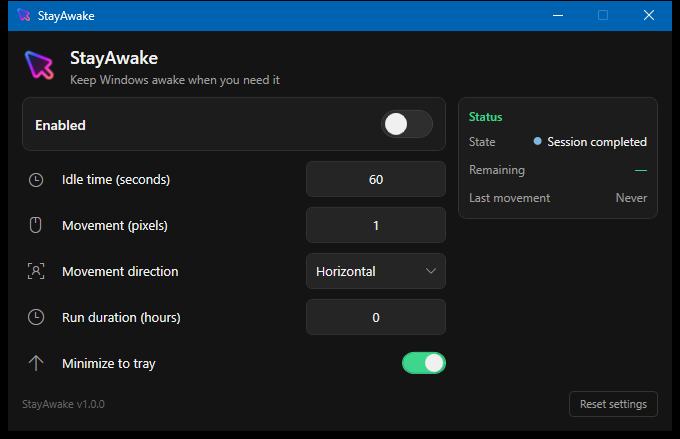
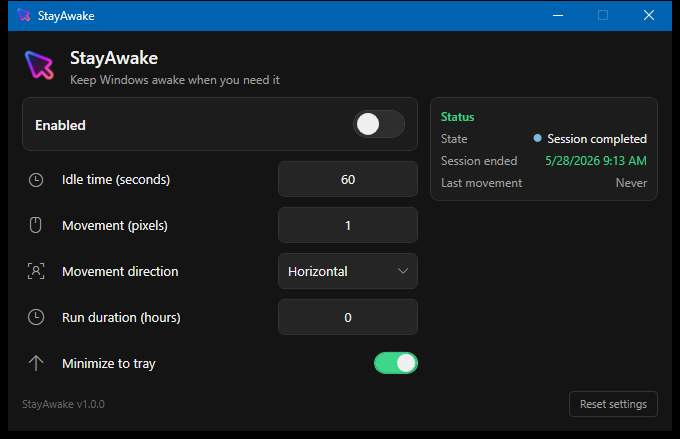
Added feature to display the date and time when a session ended.

diff --git a/StayAwake/MainWindow.xaml b/StayAwake/MainWindow.xaml
@@ -50,7 +50,7 @@
             <Grid.ColumnDefinitions>
                 <ColumnDefinition Width="*"/>
                 <ColumnDefinition Width="12"/>
-                <ColumnDefinition Width="200"/>
+                <ColumnDefinition Width="228"/>
             </Grid.ColumnDefinitions>
 
             <!-- Main settings -->
@@ -159,6 +159,11 @@
             <!-- Status -->
             <Border Grid.Column="2" Style="{StaticResource CardBorder}" Padding="10,10" VerticalAlignment="Top">
                 <Grid>
+                    <Grid.ColumnDefinitions>
+                        <ColumnDefinition Width="Auto"/>
+                        <ColumnDefinition Width="*"/>
+                        <ColumnDefinition Width="Auto"/>
+                    </Grid.ColumnDefinitions>
                     <Grid.RowDefinitions>
                         <RowDefinition Height="Auto"/>
                         <RowDefinition Height="Auto"/>
@@ -168,54 +173,49 @@
                     </Grid.RowDefinitions>
 
                     <TextBlock Grid.Row="0"
+                               Grid.ColumnSpan="3"
                                Text="Status"
                                FontSize="12"
                                FontWeight="SemiBold"
                                Foreground="{StaticResource AccentGreen}"
                                Margin="0,0,0,6"/>
 
-                    <Grid Grid.Row="1" Style="{StaticResource StatusRow}">
-                        <Grid.ColumnDefinitions>
-                            <ColumnDefinition Width="*"/>
-                            <ColumnDefinition Width="Auto"/>
-                        </Grid.ColumnDefinitions>
-                        <TextBlock Text="State" Style="{StaticResource StatusLabel}"/>
-                        <StackPanel Grid.Column="1" Orientation="Horizontal" HorizontalAlignment="Right">
-                            <Ellipse Style="{StaticResource StatusDot}" Margin="0,0,6,0" VerticalAlignment="Center"/>
-                            <TextBlock Text="{Binding StatusPillText}"
-                                       FontSize="12"
-                                       Foreground="{StaticResource TextPrimary}"
-                                       VerticalAlignment="Center"/>
-                        </StackPanel>
-                    </Grid>
-
-                    <Grid Grid.Row="2" Style="{StaticResource StatusRow}">
-                        <Grid.ColumnDefinitions>
-                            <ColumnDefinition Width="*"/>
-                            <ColumnDefinition Width="Auto"/>
-                        </Grid.ColumnDefinitions>
-                        <TextBlock Text="Remaining" Style="{StaticResource StatusLabel}"/>
-                        <TextBlock Grid.Column="1"
-                                   Text="{Binding RemainingDisplayText}"
+                    <TextBlock Grid.Row="1"
+                               Grid.Column="0"
+                               Text="State"
+                               Style="{StaticResource StatusLabel}"
+                               Margin="0,0,0,6"/>
+                    <StackPanel Grid.Row="1"
+                                Grid.Column="2"
+                                Orientation="Horizontal"
+                                Margin="0,0,0,6">
+                        <Ellipse Style="{StaticResource StatusDot}" Margin="0,0,6,0" VerticalAlignment="Center"/>
+                        <TextBlock Text="{Binding StatusPillText}"
                                    FontSize="12"
-                                   Foreground="{StaticResource AccentGreen}"
-                                   HorizontalAlignment="Right"
+                                   Foreground="{StaticResource TextPrimary}"
                                    VerticalAlignment="Center"/>
-                    </Grid>
+                    </StackPanel>
 
-                    <Grid Grid.Row="3" Style="{StaticResource StatusRowLast}" Margin="0">
-                        <Grid.ColumnDefinitions>
-                            <ColumnDefinition Width="*"/>
-                            <ColumnDefinition Width="Auto"/>
-                        </Grid.ColumnDefinitions>
-                        <TextBlock Text="Last movement" Style="{StaticResource StatusLabel}"/>
-                        <TextBlock Grid.Column="1"
-                                   Text="{Binding LastMovementValue}"
-                                   FontSize="12"
-                                   Foreground="{StaticResource TextSecondary}"
-                                   HorizontalAlignment="Right"
-                                   VerticalAlignment="Center"/>
-                    </Grid>
+                    <TextBlock Grid.Row="2"
+                               Grid.Column="0"
+                               Text="{Binding RemainingLabelText}"
+                               Style="{StaticResource StatusLabel}"
+                               Margin="0,0,0,6"/>
+                    <TextBlock Grid.Row="2"
+                               Grid.Column="2"
+                               Text="{Binding RemainingDisplayText}"
+                               Style="{StaticResource StatusValue}"
+                               Foreground="{StaticResource AccentGreen}"
+                               Margin="0,0,0,6"/>
+
+                    <TextBlock Grid.Row="3"
+                               Grid.Column="0"
+                               Text="Last movement"
+                               Style="{StaticResource StatusLabel}"/>
+                    <TextBlock Grid.Row="3"
+                               Grid.Column="2"
+                               Text="{Binding LastMovementValue}"
+                               Style="{StaticResource StatusValue}"/>
                 </Grid>
             </Border>
         </Grid>

diff --git a/StayAwake/App.xaml b/StayAwake/App.xaml
@@ -65,6 +65,16 @@
             <Setter Property="FontSize" Value="12"/>
             <Setter Property="Foreground" Value="{StaticResource TextSecondary}"/>
             <Setter Property="VerticalAlignment" Value="Center"/>
+            <Setter Property="Margin" Value="0,0,8,0"/>
+        </Style>
+
+        <Style x:Key="StatusValue" TargetType="TextBlock">
+            <Setter Property="FontSize" Value="12"/>
+            <Setter Property="Foreground" Value="{StaticResource TextSecondary}"/>
+            <Setter Property="VerticalAlignment" Value="Center"/>
+            <Setter Property="HorizontalAlignment" Value="Right"/>
+            <Setter Property="TextAlignment" Value="Right"/>
+            <Setter Property="Margin" Value="8,0,0,0"/>
         </Style>
 
         <!-- Segoe MDL2 icon -->

diff --git a/StayAwake/MainViewModel.cs b/StayAwake/MainViewModel.cs
@@ -271,6 +271,9 @@ public sealed class MainViewModel : INotifyPropertyChanged
         }
     }
 
+    public string RemainingLabelText =>
+        Status == AppStatus.SessionCompleted ? "Session ended" : "Remaining";
+
     public string RemainingDisplayText
     {
         get
@@ -279,7 +282,11 @@ public sealed class MainViewModel : INotifyPropertyChanged
                 return "—";
 
             if (Status == AppStatus.SessionCompleted)
-                return "—";
+            {
+                return _worker.SessionEndedAt is { } ended
+                    ? SessionDisplay.FormatSessionEndedAt(ended)
+                    : "—";
+            }
 
             if (_worker.IsUnlimitedSession)
                 return "Unlimited";
@@ -342,6 +349,7 @@ public sealed class MainViewModel : INotifyPropertyChanged
     {
         OnPropertyChanged(nameof(Status));
         OnPropertyChanged(nameof(StatusPillText));
+        OnPropertyChanged(nameof(RemainingLabelText));
         OnPropertyChanged(nameof(RemainingTimeValue));
         OnPropertyChanged(nameof(RemainingDisplayText));
         OnPropertyChanged(nameof(LastMovementValue));

diff --git a/StayAwake/SessionDisplay.cs b/StayAwake/SessionDisplay.cs
@@ -1,7 +1,12 @@
+using System.Globalization;
+
 namespace StayAwake;
 
 internal static class SessionDisplay
 {
+    public static string FormatSessionEndedAt(DateTime utc) =>
+        utc.ToLocalTime().ToString("g", CultureInfo.CurrentCulture);
+
     public static string FormatRemaining(TimeSpan remaining)
     {
         if (remaining <= TimeSpan.Zero)

diff --git a/StayAwake/StayAwakeWorker.cs b/StayAwake/StayAwakeWorker.cs
@@ -21,6 +21,7 @@ public sealed class StayAwakeWorker : IDisposable
     public AppStatus Status { get; private set; } = AppStatus.Disabled;
     public DateTime? SessionStartedAt { get; private set; }
     public DateTime? SessionEndsAt { get; private set; }
+    public DateTime? SessionEndedAt { get; private set; }
     public DateTime? LastMoved { get; private set; }
 
     public event Action? StatusChanged;
@@ -69,6 +70,7 @@ public sealed class StayAwakeWorker : IDisposable
     {
         SessionStartedAt = DateTime.UtcNow;
         SessionEndsAt = duration is null ? null : DateTime.UtcNow.Add(duration.Value);
+        SessionEndedAt = null;
         _settings.Enabled = true;
         LastMoved = null;
         Status = AppStatus.Active;
@@ -82,6 +84,7 @@ public sealed class StayAwakeWorker : IDisposable
         _settings.Enabled = false;
         SessionStartedAt = null;
         SessionEndsAt = null;
+        SessionEndedAt = null;
         LastMoved = null;
         Status = AppStatus.Disabled;
         SyncKeepAwake();
@@ -143,9 +146,9 @@ public sealed class StayAwakeWorker : IDisposable
     private void CompleteSession()
     {
         _settings.Enabled = false;
+        SessionEndedAt = DateTime.UtcNow;
         SessionStartedAt = null;
         SessionEndsAt = null;
-        LastMoved = null;
         Status = AppStatus.SessionCompleted;
         SyncKeepAwake();
         NotifyStatusChanged();

diff --git a/docs/ARCHITECTURE.md b/docs/ARCHITECTURE.md
@@ -164,7 +164,7 @@ stateDiagram-v2
 |-------|---------------------|---------------------------|-------------|
 | **Disabled** | `false` | Off (restore normal power management) | Editable |
 | **Active** | `true` | On (`ES_SYSTEM_REQUIRED \| ES_DISPLAY_REQUIRED`) | Locked (`CanEditSettings == false`) |
-| **SessionCompleted** | `false` (set by `CompleteSession`) | Off | Editable; status shows "Session completed" |
+| **SessionCompleted** | `false` (set by `CompleteSession`) | Off | Editable; status shows "Session completed" and session ended date/time |
 
 ### Session timestamps
 
@@ -172,7 +172,8 @@ stateDiagram-v2
 |----------|------|-------|
 | `SessionStartedAt` | `DateTime?` (UTC) | Set on `StartSession` |
 | `SessionEndsAt` | `DateTime?` (UTC) | `null` = unlimited session |
-| `LastMoved` | `DateTime?` (local) | Last synthetic mouse jiggle |
+| `SessionEndedAt` | `DateTime?` (UTC) | Set on `CompleteSession`; cleared on `StartSession` / `StopSession`; not persisted |
+| `LastMoved` | `DateTime?` (UTC) | Last synthetic mouse jiggle; preserved after session completion |
 
 **Unlimited session:** `SessionDurationHours == 0` in the UI → `StartSession(null)` → `SessionEndsAt == null`. `IsUnlimitedSession` is true when enabled, started, and no end time.
 
@@ -188,11 +189,12 @@ Called from UI toggle, tray presets, ViewModel constructor (if persisted enabled
 
 1. `SessionStartedAt = UtcNow`
 2. `SessionEndsAt = duration is null ? null : UtcNow + duration`
-3. `_settings.Enabled = true`
-4. `LastMoved = null` (reset jiggle rate limit)
-5. `Status = Active`
-6. `SyncKeepAwake()` → `NativeMethods.SetKeepAwake(true)`
-7. `StatusChanged` event
+3. `SessionEndedAt = null`
+4. `_settings.Enabled = true`
+5. `LastMoved = null` (reset jiggle rate limit)
+6. `Status = Active`
+7. `SyncKeepAwake()` → `NativeMethods.SetKeepAwake(true)`
+8. `StatusChanged` event
 
 ViewModel wrapper also saves settings and refreshes bindings.
 
@@ -201,7 +203,7 @@ ViewModel wrapper also saves settings and refreshes bindings.
 Called from UI toggle off, tray "Disable", or reset.
 
 1. `_settings.Enabled = false`
-2. Clear `SessionStartedAt`, `SessionEndsAt`, `LastMoved`
+2. Clear `SessionStartedAt`, `SessionEndsAt`, `SessionEndedAt`, `LastMoved`
 3. `Status = Disabled`
 4. `SyncKeepAwake(false)`
 5. `StatusChanged` event
@@ -211,7 +213,7 @@ Called from UI toggle off, tray "Disable", or reset.
 Called when `IsSessionExpired()` is true on a timer tick.
 
 1. `_settings.Enabled = false`
-2. Clear session timestamps and `LastMoved`
+2. `SessionEndedAt = UtcNow`; clear `SessionStartedAt` and `SessionEndsAt` (keep `LastMoved`)
 3. `Status = SessionCompleted` (not `Disabled`—distinct UX)
 4. `SyncKeepAwake(false)`
 5. `SessionCompleted` event
@@ -385,7 +387,7 @@ Same folder as `StayAwake.exe`—portable when the EXE is copied anywhere.
 - **Compact utility:** one window, no navigation, no dashboard.
 - **Dark theme:** `#141414` window background, card-based layout, custom toggle/combo/textbox styles in `App.xaml`.
 - **Session-oriented:** master "Enabled" toggle starts a session; settings lock while active.
-- **Status at a glance:** right column shows state, remaining time, last movement time.
+- **Status at a glance:** right column shows state, remaining time (or session ended date/time when completed), last movement time.
 
 ### MainWindow layout
 
@@ -394,7 +396,7 @@ Same folder as `StayAwake.exe`—portable when the EXE is copied anywhere.
 | Header | App icon + title + tagline |
 | Left card | Enabled toggle |
 | Left grid | Idle seconds, movement pixels, direction combo, run duration (hours), minimize-to-tray |
-| Right card | Status: state pill + dot, remaining, last movement |
+| Right card | Status: state pill + dot, remaining or session ended (label switches), last movement |
 | Footer | Version string, Reset settings button |
 
 ### Binding strategy
@@ -403,6 +405,7 @@ Same folder as `StayAwake.exe`—portable when the EXE is copied anywhere.
 - **Movement direction:** `MovementMode` enum bound to ComboBox `ItemsSource` / `SelectedItem`.
 - **Numeric fields:** string properties (`IdleSecondsText`, etc.) with `UpdateSourceTrigger=LostFocus`; parse and clamp on set; revert invalid text on `LostFocus` via `RevertInvalidNumericFields`.
 - **Clamps:** idle 10–3600 s, pixels 1–10, session hours 0–99.
+- **Status row 2:** `RemainingLabelText` (`"Remaining"` or `"Session ended"`) and `RemainingDisplayText` (countdown, `"Unlimited"`, ended-at via `SessionDisplay.FormatSessionEndedAt`, or `"—"`).
 
 ### `CanEditSettings`
 
@@ -488,7 +491,7 @@ On session expiry: 3-second info balloon — "Session completed".
 ### Worker vs ViewModel on `StatusChanged`
 
 - **Worker** compares runtime-only snapshot: `Status`, `LastMoved` (UTC), remaining seconds (`int?`, `null` when unlimited).
-- **ViewModel** formats display strings (`RemainingDisplayText`, `LastMovementValue` in local time) and notifies only status-related bindings on timer ticks—not `MovementMode`, settings text fields, etc.
+- **ViewModel** formats display strings (`RemainingLabelText`, `RemainingDisplayText`, `LastMovementValue` in local time) and notifies only status-related bindings on timer ticks—not `MovementMode`, settings text fields, etc.
 - **Configuration refresh** (`RefreshAll`) runs on user/session actions (`StartSession`, `StopSession`, reset), not every timer tick.
 
 ### Notes
@@ -565,7 +568,7 @@ Do not add: cloud sync, accounts, telemetry, plugins, schedulers, enterprise das
 | `AppStatus.cs` | `Active`, `Disabled`, `SessionCompleted` |
 | `MovementMode.cs` | Movement direction enum |
 | `MovementModeJsonConverter.cs` | Tolerant JSON enum serialization |
-| `SessionDisplay.cs` | Shared remaining-time formatting for UI and tray |
+| `SessionDisplay.cs` | Shared remaining-time and session-ended-at formatting for UI and tray |
 | `MainWindow.xaml` | Settings UI layout and bindings |
 | `MainWindow.xaml.cs` | Minimize-to-tray, numeric field revert on lost focus |
 | `MainViewModel.cs` | Bindings, validation, session commands, worker event handling |

diff --git a/README.md b/README.md
@@ -27,7 +27,7 @@ The architecture stays flat on purpose: manual wiring in `App`, one background w
 - **Session duration** — run for N hours or unlimited (`0` hours); auto-disable when time is up
 - **System tray** — quick-start presets (30 min, 1 h, 3 h, indefinite), stop session, open settings
 - **Portable settings** — `settings.json` next to the executable
-- **Dark, compact UI** — single settings screen with live status
+- **Dark, compact UI** — single settings screen with live status (including session end date/time after a timed session completes)
 - **Single instance** — prevents accidentally running two copies
 
 ---
@@ -38,7 +38,7 @@ The architecture stays flat on purpose: manual wiring in `App`, one background w
 |----------------|----------|
 | ![Main window — active session](docs/screenshots/main-active.png) | ![Main window — disabled](docs/screenshots/main-disabled.png) |
 
-| Session completed | Tray menu |
+| Session completed (shows **Session ended** time) | Tray menu |
 |-------------------|-----------|
 | ![Session completed](docs/screenshots/main-session-completed.png) | ![Tray context menu](docs/screenshots/tray-menu.png) |
 
@@ -162,7 +162,7 @@ For state diagrams, worker loop pseudocode, Win32 details, and threading notes, 
 
 - **Start** — `StartSession(duration)` sets timestamps, enables keep-awake, begins idle monitoring.
 - **Stop** — `StopSession()` or tray **Stop session** ends the session.
-- **Auto-stop** — when `SessionEndsAt` is reached, status becomes **Session completed**, settings saved, tray balloon shown.
+- **Auto-stop** — when `SessionEndsAt` is reached, status becomes **Session completed**, settings saved, tray balloon shown; the Status panel shows **Session ended** with the local date and time (in memory until you start a new session or disable).
 
 **Idle behavior:** Each second, if you've been idle for at least `IdleSeconds` *and* the last synthetic jiggle was at least `IdleSeconds` ago, the worker nudges the mouse and resets the rate limit.
 
@@ -172,7 +172,7 @@ For state diagrams, worker loop pseudocode, Win32 details, and threading notes, 
 
 - **Compact utility** — one screen, no tabs or dashboards.
 - **Dark theme** — low-contrast grays and green accent; Segoe MDL2 icons for settings rows.
-- **Status sidebar** — state, remaining time, last movement—no log viewer.
+- **Status sidebar** — state, remaining time (or session ended date/time when completed), last movement—no log viewer.
 - **Session-oriented workflow** — enable = start a session; configure duration and idle rules before or between sessions.
 
 ---

diff --git a/docs/screenshots/README.md b/docs/screenshots/README.md
@@ -17,7 +17,7 @@ Capture guide for README images. Use a **Release** build on Windows with dark th
 |------|----------------|
 | `main-active.png` | Enable session, idle 60s, run duration 1h. Status: **Active**, remaining time visible. |
 | `main-disabled.png` | Enabled off. All settings editable. |
-| `main-session-completed.png` | Let a short session expire, or use a 0.01h test duration. Status: **Session completed**. |
+| `main-session-completed.png` | Let a short session expire, or use `STAYAWAKE_SCREENSHOT=session-completed` (1s session). Status: **Session completed**; **Session ended** row shows local date and time. |
 | `tray-menu.png` | Right-click tray icon with context menu fully visible. |
 
 ## Capture steps